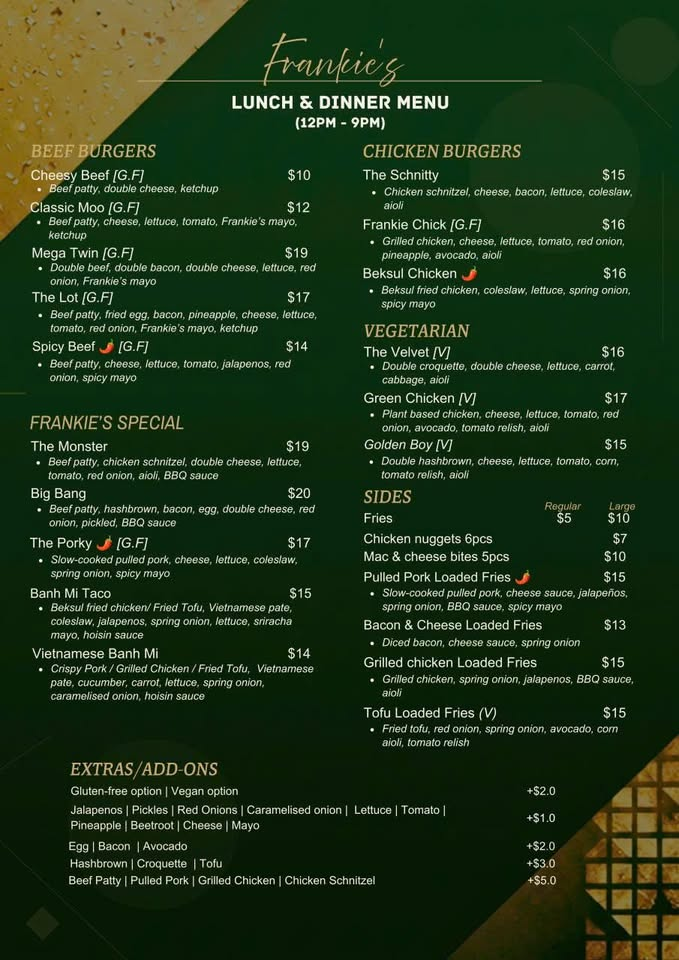
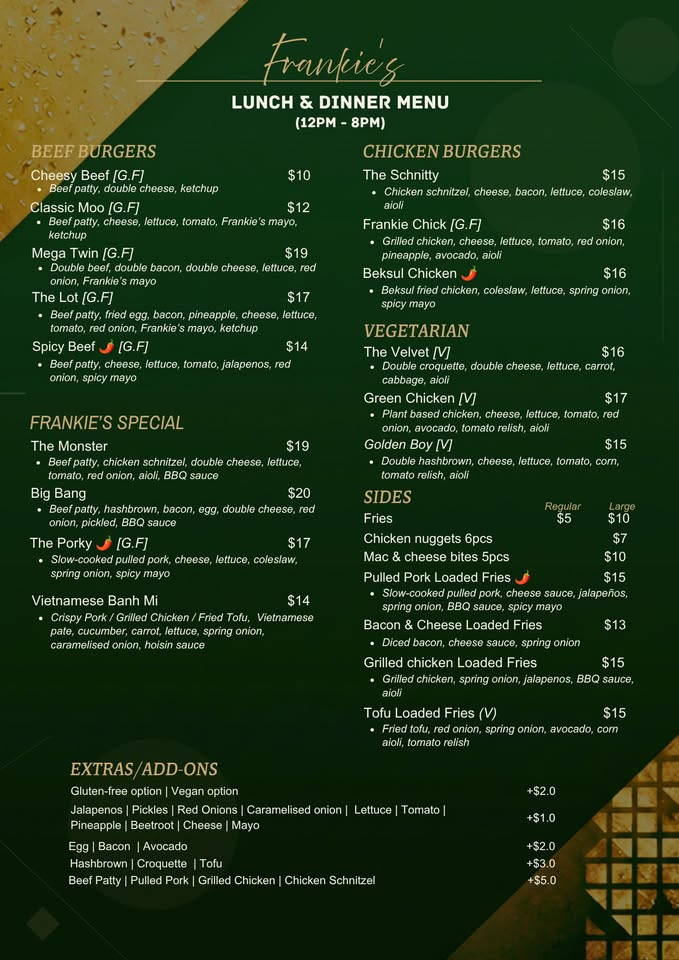
Update menu items and closing time

diff --git a/app/page.tsx b/app/page.tsx
@@ -17,7 +17,7 @@ const favourites = [
   },
   {
     number: "03",
-    name: "The Schmitty",
+    name: "The Schnitty",
     price: "$15",
     description:
       "Chicken schnitzel, cheese, bacon, lettuce, coleslaw and aioli.",
@@ -33,11 +33,11 @@ const favourites = [
   },
   {
     number: "05",
-    name: "Banh Mi Taco",
-    price: "$15",
+    name: "Vietnamese Crispy Pork Roll",
+    price: "$14",
     description:
-      "Beksul fried chicken or fried tofu, Vietnamese pâté, coleslaw, jalapeños, spring onion, lettuce, sriracha mayo and hoisin.",
-    note: "A little different",
+      "Crispy pork, Vietnamese pâté, cucumber, carrot, lettuce, spring onion, caramelised onion and hoisin sauce.",
+    note: "Crispy pork",
   },
   {
     number: "06",
@@ -72,7 +72,7 @@ export default function Home() {
 
       <div className="service-strip">
         <p>Open 7 days at Eden Rise Village</p>
-        <p className="service-strip-desktop">Lunch &amp; dinner, 12 pm to 9 pm</p>
+        <p className="service-strip-desktop">Lunch &amp; dinner, 12 pm to 8 pm</p>
         <a href="tel:+61387868405">03 8786 8405</a>
       </div>
 
@@ -126,7 +126,7 @@ export default function Home() {
             </div>
             <div className="hero-caption">
               <span>Lunch &amp; dinner</span>
-              <strong>12–9 daily</strong>
+              <strong>12–8 daily</strong>
             </div>
           </div>
         </section>
@@ -296,7 +296,7 @@ export default function Home() {
             </div>
             <div>
               <p className="detail-label">Kitchen hours</p>
-              <p>Lunch &amp; dinner<br /><strong>12 pm to 9 pm, daily</strong></p>
+              <p>Lunch &amp; dinner<br /><strong>12 pm to 8 pm, daily</strong></p>
               <p className="hours-note">Call ahead to confirm café hours before making a special trip.</p>
             </div>
             <div>
